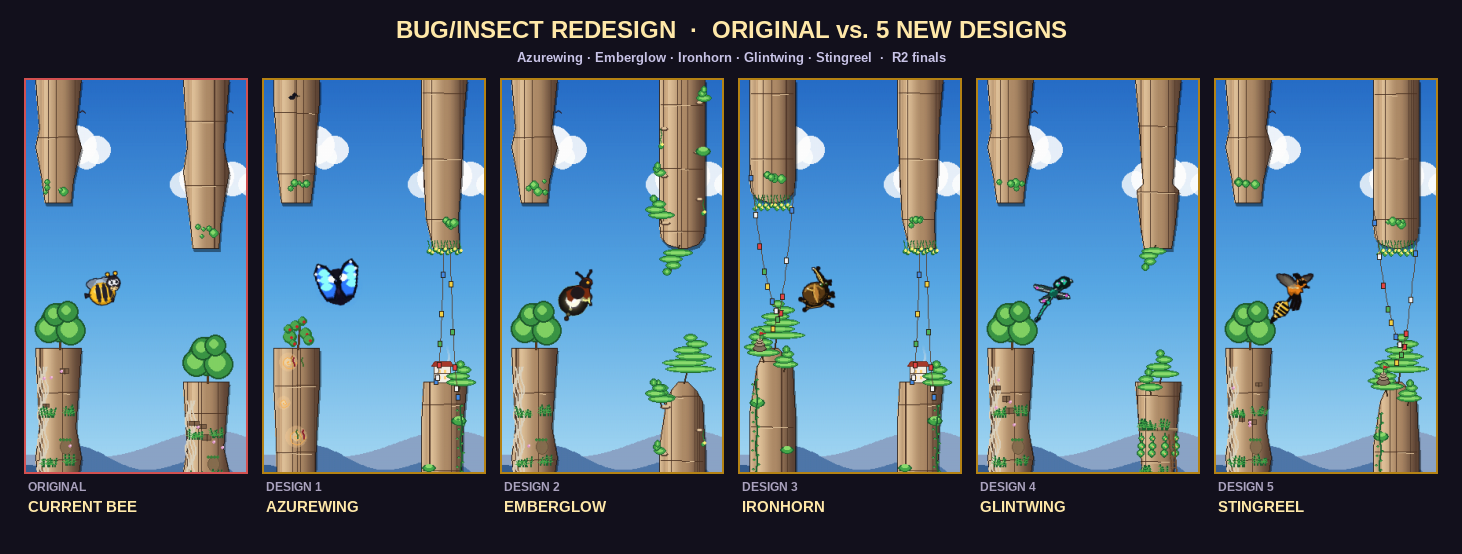
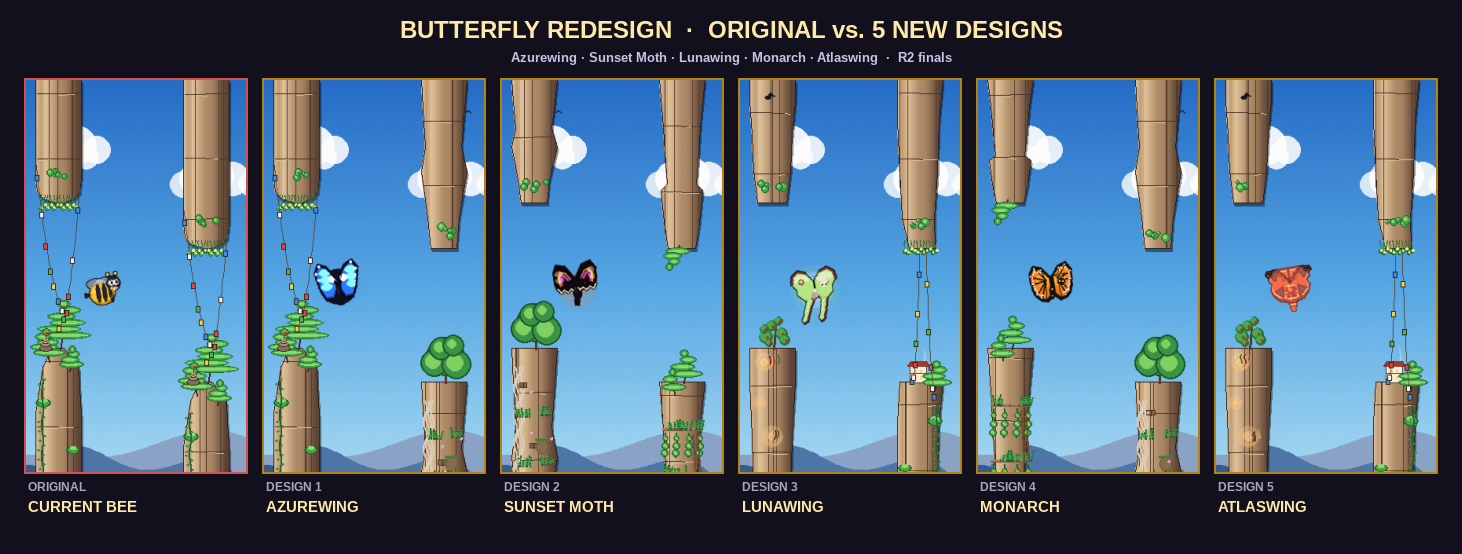
bug/bee butterfly R2: final comparison figure with butterfly names
Update render_bee_compare.py: COLUMNS, title, and subtitle to reflect the
butterfly species (Sunset Moth, Lunawing, Monarch, Atlaswing) replacing the
old insect names. Regenerate final_comparison.png with all 5 R2 butterfly
designs side by side vs. the original skin_bee.

Claude-Session: https://claude.ai/code/session_01K6KPJsdtoYoDR2za2Jqnmo

diff --git a/tools/render_bee_compare.py b/tools/render_bee_compare.py
@@ -1,6 +1,6 @@
-"""Final comparison figure for the bug/insect bee-slot redesign.
+"""Final comparison figure for the butterfly bee-slot redesign.
 
-Six columns: ORIGINAL live skin_bee + five new insect designs, each Pip
+Six columns: ORIGINAL live skin_bee + five butterfly designs, each Pip
 mid-flight over the same real gameplay biome scene.
 
 Run headless from repo root:
@@ -22,10 +22,10 @@ from game.hud import _font, _GOLD_PALE, _GOLD_DEEP
 COLUMNS = [
     ("ORIGINAL",  "CURRENT BEE",    "skin_bee"),
     ("DESIGN 1",  "AZUREWING",      "design_1"),
-    ("DESIGN 2",  "EMBERGLOW",      "design_2"),
-    ("DESIGN 3",  "IRONHORN",       "design_3"),
-    ("DESIGN 4",  "GLINTWING",      "design_4"),
-    ("DESIGN 5",  "STINGREEL",      "design_5"),
+    ("DESIGN 2",  "SUNSET MOTH",    "design_2"),
+    ("DESIGN 3",  "LUNAWING",       "design_3"),
+    ("DESIGN 4",  "MONARCH",        "design_4"),
+    ("DESIGN 5",  "ATLASWING",      "design_5"),
 ]
 
 
@@ -47,12 +47,12 @@ sheet = pygame.Surface((sheet_w, sheet_h))
 sheet.fill((18, 16, 28))
 
 title = _font(24, True).render(
-    "BUG/INSECT REDESIGN  ·  ORIGINAL vs. 5 NEW DESIGNS",
+    "BUTTERFLY REDESIGN  ·  ORIGINAL vs. 5 NEW DESIGNS",
     True, _GOLD_PALE)
 sheet.blit(title, title.get_rect(midtop=(sheet_w // 2, 16)))
 
 subtitle = _font(13).render(
-    "Azurewing · Emberglow · Ironhorn · Glintwing · Stingreel  ·  R2 finals",
+    "Azurewing · Sunset Moth · Lunawing · Monarch · Atlaswing  ·  R2 finals",
     True, (200, 195, 230))
 sheet.blit(subtitle, subtitle.get_rect(midtop=(sheet_w // 2, 50)))
 
